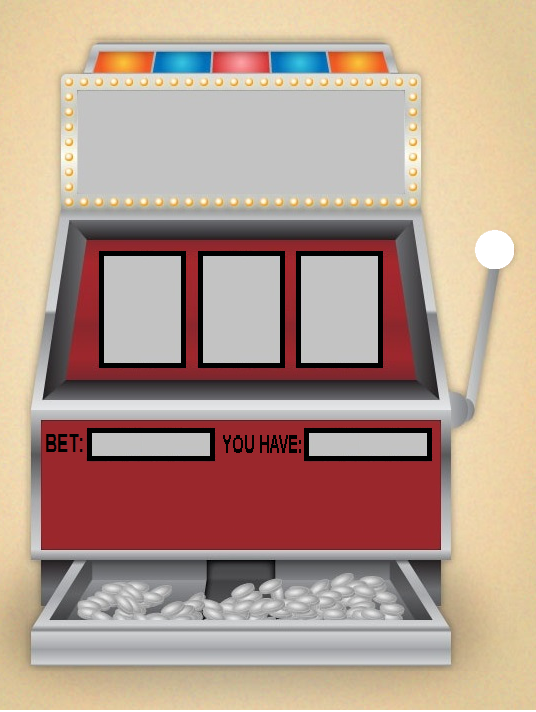
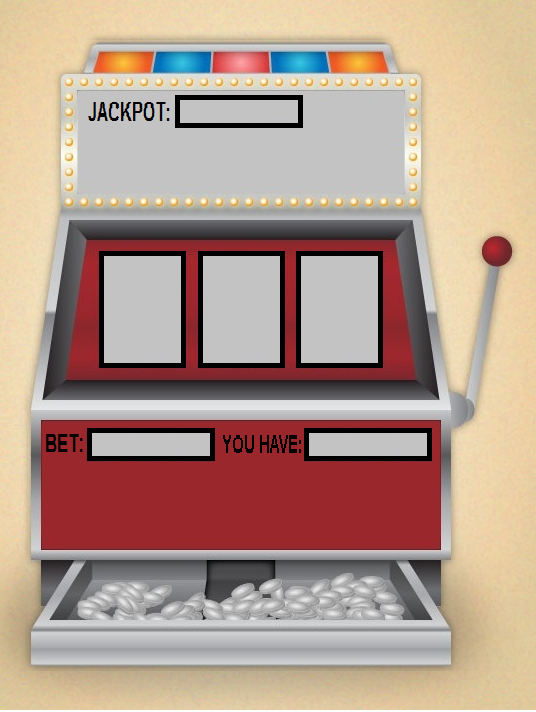
Change the background with a Jackpot

Changed region(s): [[0.1493, 0.1236, 0.5672, 0.1854], [0.8657, 0.309, 0.9552, 0.4017]]

diff --git a/Assignment_2/scripts/main.js b/Assignment_2/scripts/main.js
@@ -59,6 +59,7 @@ var btnBet1;
 var btnBet5;
 var btnBet10;
 var btnBet100;
+var btnRestart;
 var background;
 var btnSpin;
 var betMoney;
@@ -274,6 +275,9 @@ function createUI() {
     spinButton = new Button("assets/images/spinButton.png", 410, 545);
     game.addChild(spinButton.getImage());
     */
+    
+    btnRestart = new Button("images/btnRestart.png", 310, 96);
+    game.addChild(btnRestart.getImage());
 
     //Reset Button
     btnReset = new Button("images/btnReset.png", 53, 481);
